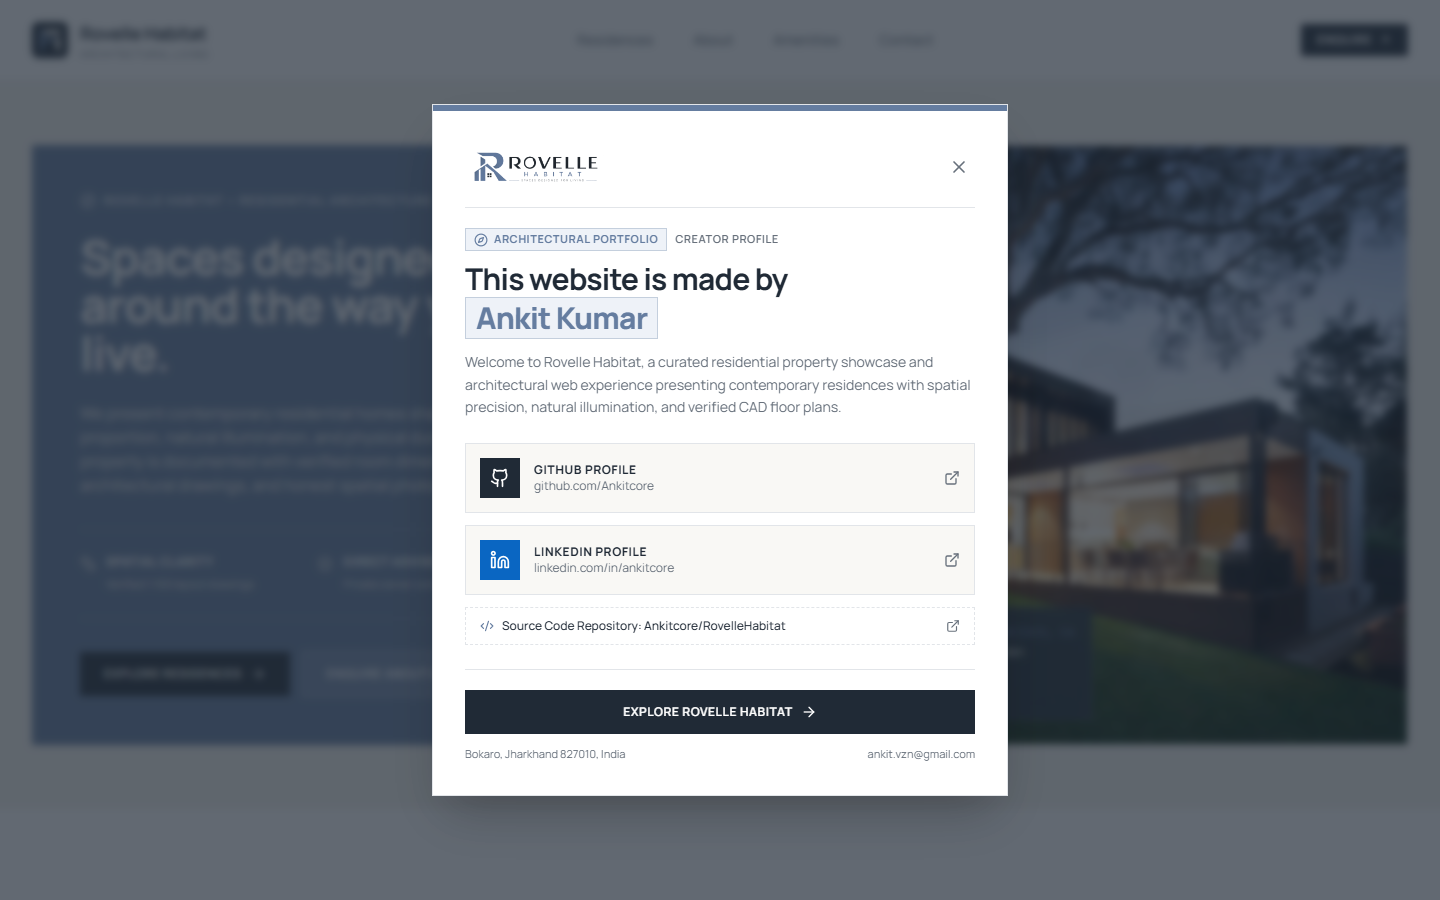
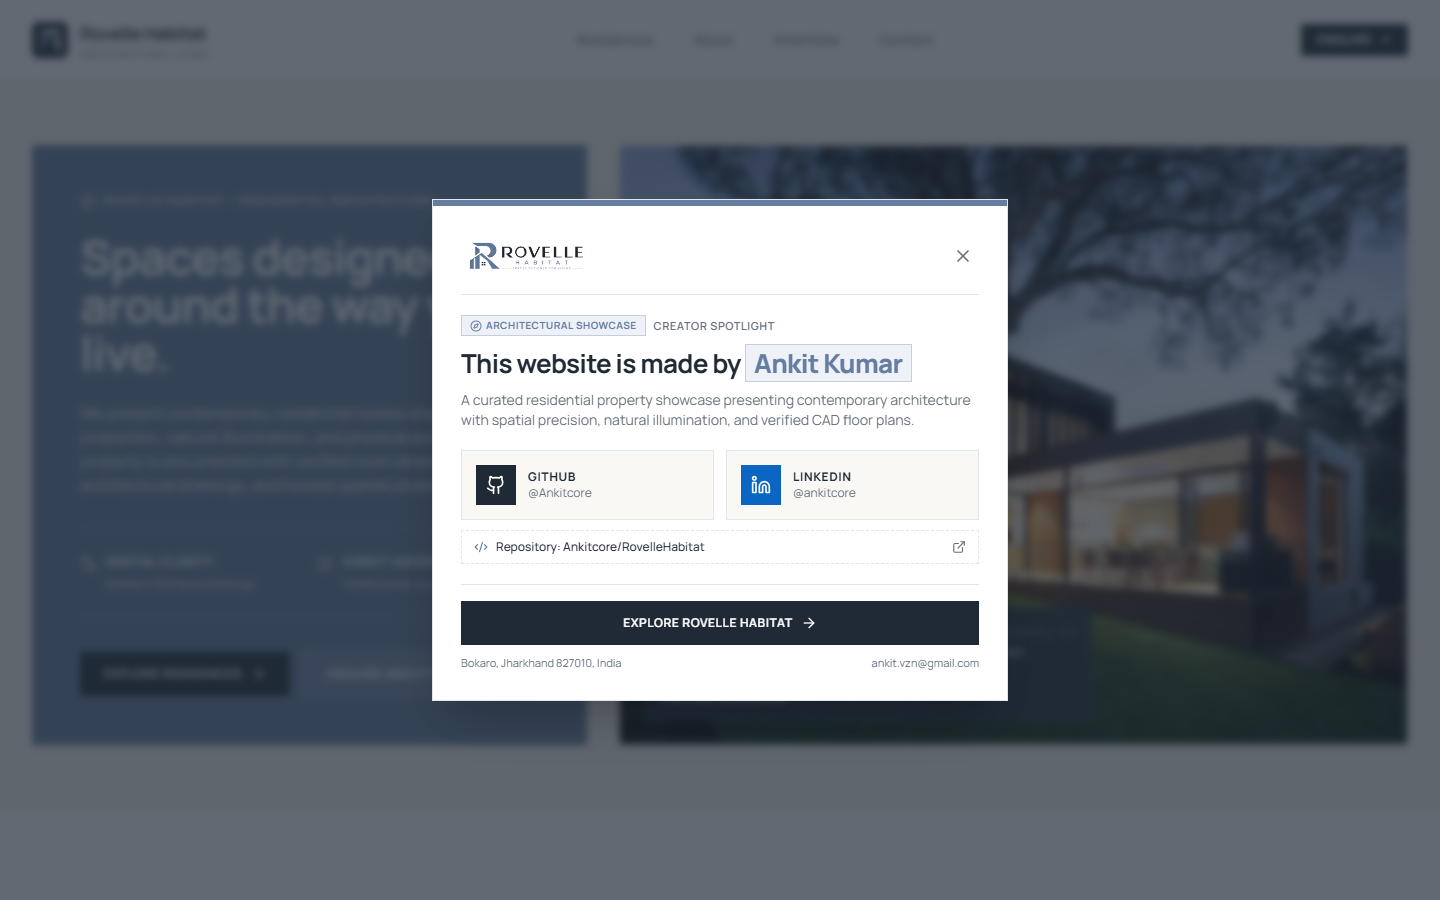
style(modal): compact mobile layout to ~50% screen and refine desktop editorial layout

Changed region(s): [[0.2812, 0.0933, 0.7188, 0.56], [0.2812, 0.5911, 0.7188, 0.9022], [0.6562, 0.5911, 0.6875, 0.6222]]

diff --git a/src/components/home/CreatorWelcomeModal.tsx b/src/components/home/CreatorWelcomeModal.tsx
@@ -9,11 +9,10 @@ export function CreatorWelcomeModal() {
   const [isRendered, setIsRendered] = useState(false)
 
   useEffect(() => {
-    // Show modal on homepage open
     setIsRendered(true)
     const timer = setTimeout(() => {
       setIsOpen(true)
-    }, 200)
+    }, 150)
 
     return () => clearTimeout(timer)
   }, [])
@@ -42,7 +41,7 @@ export function CreatorWelcomeModal() {
     setIsOpen(false)
     setTimeout(() => {
       setIsRendered(false)
-    }, 300)
+    }, 250)
   }
 
   if (!isRendered) return null
@@ -52,7 +51,7 @@ export function CreatorWelcomeModal() {
       role="dialog"
       aria-modal="true"
       aria-labelledby="creator-modal-title"
-      className={`fixed inset-0 z-50 flex items-center justify-center p-4 sm:p-6 transition-all duration-300 ${
+      className={`fixed inset-0 z-50 flex items-center justify-center p-3 sm:p-6 transition-all duration-300 ${
         isOpen
           ? 'bg-rovelle-charcoal/70 backdrop-blur-sm opacity-100'
           : 'bg-transparent backdrop-blur-none opacity-0 pointer-events-none'
@@ -60,24 +59,24 @@ export function CreatorWelcomeModal() {
       onClick={handleClose}
     >
       <div
-        className={`relative w-full max-w-lg sm:max-w-xl overflow-hidden rounded-xs border border-rovelle-border bg-white shadow-2xl transition-all duration-300 transform ${
-          isOpen ? 'scale-100 translate-y-0 opacity-100' : 'scale-95 translate-y-4 opacity-0'
+        className={`relative w-full max-w-[360px] sm:max-w-xl overflow-hidden rounded-xs border border-rovelle-border bg-white shadow-2xl transition-all duration-300 transform ${
+          isOpen ? 'scale-100 translate-y-0 opacity-100' : 'scale-95 translate-y-3 opacity-0'
         }`}
         onClick={(e) => e.stopPropagation()}
       >
         {/* Architectural Accent Bar */}
-        <div className="h-1.5 w-full bg-rovelle-slate" />
+        <div className="h-1 sm:h-1.5 w-full bg-rovelle-slate" />
 
-        {/* Modal Inner Container */}
-        <div className="p-6 sm:p-8">
-          {/* Header Row: Brand Logo and Close Button */}
-          <div className="flex items-center justify-between gap-4 pb-4 border-b border-rovelle-border">
-            <div className="flex items-center gap-3">
+        {/* Modal Inner Content */}
+        <div className="p-4 sm:p-7">
+          {/* Header Row: Official Logo & Close Button */}
+          <div className="flex items-center justify-between gap-3 pb-3 sm:pb-4 border-b border-rovelle-border">
+            <div className="flex items-center">
               {/* eslint-disable-next-line @next/next/no-img-element */}
               <img
                 src="/images/brand/rovelle-habitat-logo-light.png"
                 alt="Rovelle Habitat Brand Logo"
-                className="h-10 sm:h-12 w-auto max-w-[190px] sm:max-w-[220px] object-contain"
+                className="h-7 sm:h-11 w-auto max-w-[160px] sm:max-w-[220px] object-contain"
               />
             </div>
 
@@ -87,112 +86,115 @@ export function CreatorWelcomeModal() {
               className="rounded-xs p-1.5 text-rovelle-muted transition-colors hover:bg-rovelle-ivory hover:text-rovelle-charcoal focus:outline-none focus:ring-2 focus:ring-rovelle-slate shrink-0"
               aria-label="Close welcome modal"
             >
-              <X className="h-5 w-5" />
+              <X className="h-4 w-4 sm:h-5 sm:w-5" />
             </button>
           </div>
 
-          {/* Main Statement & Editorial Content */}
-          <div className="mt-5">
-            <div className="flex flex-wrap items-center gap-2 mb-2.5">
-              <span className="inline-flex items-center gap-1.5 rounded-xs border border-rovelle-slate/30 bg-rovelle-tint-blue px-2 py-0.5 text-[10px] sm:text-[11px] font-bold uppercase tracking-wider text-rovelle-slate">
-                <Compass className="h-3 w-3 sm:h-3.5 sm:w-3.5" />
-                <span>Architectural Portfolio</span>
+          {/* Eyebrow & Main Statement */}
+          <div className="mt-3.5 sm:mt-5">
+            <div className="flex items-center gap-2 mb-2">
+              <span className="inline-flex items-center gap-1 rounded-xs border border-rovelle-slate/30 bg-rovelle-tint-blue px-2 py-0.5 text-[10px] font-bold uppercase tracking-wider text-rovelle-slate">
+                <Compass className="h-3 w-3" />
+                <span>Architectural Showcase</span>
               </span>
               <span className="text-[10px] sm:text-[11px] font-semibold uppercase tracking-wider text-rovelle-muted">
-                Creator Profile
+                Creator Spotlight
               </span>
             </div>
 
             <h2
               id="creator-modal-title"
-              className="text-2xl font-bold tracking-tight text-rovelle-charcoal sm:text-3xl leading-snug"
+              className="text-xl sm:text-2xl lg:text-[26px] font-bold tracking-tight text-rovelle-charcoal leading-snug"
             >
               This website is made by{' '}
-              <span className="inline-block whitespace-nowrap rounded-xs bg-rovelle-tint-blue px-2.5 py-0.5 text-rovelle-slate font-extrabold border border-rovelle-slate/30 shadow-2xs">
+              <span className="inline-block whitespace-nowrap rounded-xs bg-rovelle-tint-blue px-2 py-0.5 text-rovelle-slate font-extrabold border border-rovelle-slate/30 shadow-2xs">
                 {siteConfig.brand.developerName}
               </span>
             </h2>
 
-            <p className="mt-3 text-sm leading-relaxed text-rovelle-muted">
-              Welcome to Rovelle Habitat, a curated residential property showcase and architectural web experience presenting contemporary residences with spatial precision, natural illumination, and verified CAD floor plans.
+            {/* Desktop Editorial Subtitle */}
+            <p className="mt-2 text-xs sm:text-sm leading-relaxed text-rovelle-muted">
+              A curated residential property showcase presenting contemporary architecture with spatial precision, natural illumination, and verified CAD floor plans.
             </p>
           </div>
 
-          {/* Social Profiles & Developer Links */}
-          <div className="mt-6 space-y-3">
-            {/* GitHub Profile */}
-            <a
-              href={siteConfig.brand.developerGithub}
-              target="_blank"
-              rel="noopener noreferrer"
-              className="group flex items-center justify-between rounded-xs border border-rovelle-border bg-rovelle-ivory/60 p-3.5 transition-all duration-150 hover:border-rovelle-slate hover:bg-rovelle-tint-blue/80"
-            >
-              <div className="flex items-center gap-3.5">
-                <div className="flex h-10 w-10 items-center justify-center rounded-xs bg-rovelle-charcoal text-white transition-colors group-hover:bg-rovelle-slate">
-                  <Github className="h-5 w-5" />
-                </div>
-                <div className="text-left">
-                  <div className="text-xs font-bold uppercase tracking-wider text-rovelle-charcoal">
-                    GitHub Profile
+          {/* Social Profiles & Developer Links (Compact Grid on Mobile, Refined on Web) */}
+          <div className="mt-3.5 sm:mt-5 space-y-2.5">
+            <div className="grid grid-cols-2 gap-2 sm:gap-3">
+              {/* GitHub Link */}
+              <a
+                href={siteConfig.brand.developerGithub}
+                target="_blank"
+                rel="noopener noreferrer"
+                className="group flex items-center justify-between rounded-xs border border-rovelle-border bg-rovelle-ivory/60 p-2.5 sm:p-3.5 transition-all duration-150 hover:border-rovelle-slate hover:bg-rovelle-tint-blue/80"
+              >
+                <div className="flex items-center gap-2.5 sm:gap-3">
+                  <div className="flex h-8 w-8 sm:h-10 sm:w-10 items-center justify-center rounded-xs bg-rovelle-charcoal text-white transition-colors group-hover:bg-rovelle-slate shrink-0">
+                    <Github className="h-4 w-4 sm:h-5 sm:w-5" />
                   </div>
-                  <div className="text-xs text-rovelle-muted">
-                    github.com/Ankitcore
+                  <div className="text-left overflow-hidden">
+                    <div className="text-[11px] sm:text-xs font-bold uppercase tracking-wider text-rovelle-charcoal truncate">
+                      GitHub
+                    </div>
+                    <div className="text-[10px] sm:text-xs text-rovelle-muted truncate">
+                      @Ankitcore
+                    </div>
                   </div>
                 </div>
-              </div>
-              <ExternalLink className="h-4 w-4 text-rovelle-muted transition-colors group-hover:text-rovelle-slate" />
-            </a>
+                <ExternalLink className="h-3.5 w-3.5 text-rovelle-muted group-hover:text-rovelle-slate shrink-0 hidden xs:block" />
+              </a>
 
-            {/* LinkedIn Profile */}
-            <a
-              href={siteConfig.brand.developerLinkedin}
-              target="_blank"
-              rel="noopener noreferrer"
-              className="group flex items-center justify-between rounded-xs border border-rovelle-border bg-rovelle-ivory/60 p-3.5 transition-all duration-150 hover:border-rovelle-slate hover:bg-rovelle-tint-blue/80"
-            >
-              <div className="flex items-center gap-3.5">
-                <div className="flex h-10 w-10 items-center justify-center rounded-xs bg-[#0A66C2] text-white transition-opacity group-hover:opacity-90">
-                  <Linkedin className="h-5 w-5" />
-                </div>
-                <div className="text-left">
-                  <div className="text-xs font-bold uppercase tracking-wider text-rovelle-charcoal">
-                    LinkedIn Profile
+              {/* LinkedIn Link */}
+              <a
+                href={siteConfig.brand.developerLinkedin}
+                target="_blank"
+                rel="noopener noreferrer"
+                className="group flex items-center justify-between rounded-xs border border-rovelle-border bg-rovelle-ivory/60 p-2.5 sm:p-3.5 transition-all duration-150 hover:border-rovelle-slate hover:bg-rovelle-tint-blue/80"
+              >
+                <div className="flex items-center gap-2.5 sm:gap-3">
+                  <div className="flex h-8 w-8 sm:h-10 sm:w-10 items-center justify-center rounded-xs bg-[#0A66C2] text-white transition-opacity group-hover:opacity-90 shrink-0">
+                    <Linkedin className="h-4 w-4 sm:h-5 sm:w-5" />
                   </div>
-                  <div className="text-xs text-rovelle-muted">
-                    linkedin.com/in/ankitcore
+                  <div className="text-left overflow-hidden">
+                    <div className="text-[11px] sm:text-xs font-bold uppercase tracking-wider text-rovelle-charcoal truncate">
+                      LinkedIn
+                    </div>
+                    <div className="text-[10px] sm:text-xs text-rovelle-muted truncate">
+                      @ankitcore
+                    </div>
                   </div>
                 </div>
-              </div>
-              <ExternalLink className="h-4 w-4 text-rovelle-muted transition-colors group-hover:text-rovelle-slate" />
-            </a>
+                <ExternalLink className="h-3.5 w-3.5 text-rovelle-muted group-hover:text-rovelle-slate shrink-0 hidden xs:block" />
+              </a>
+            </div>
 
-            {/* GitHub Repository Reference */}
+            {/* Source Code Repository (Compact Banner) */}
             <a
               href={siteConfig.brand.repositoryUrl}
               target="_blank"
               rel="noopener noreferrer"
-              className="group flex items-center justify-between rounded-xs border border-dashed border-rovelle-border bg-white px-3.5 py-2.5 transition-all duration-150 hover:border-rovelle-slate hover:bg-rovelle-ivory/40"
+              className="group flex items-center justify-between rounded-xs border border-dashed border-rovelle-border bg-white px-3 py-2 transition-all duration-150 hover:border-rovelle-slate hover:bg-rovelle-ivory/40"
             >
-              <div className="flex items-center gap-2 text-xs font-medium text-rovelle-charcoal">
-                <Code2 className="h-3.5 w-3.5 text-rovelle-slate" />
-                <span>Source Code Repository: Ankitcore/RovelleHabitat</span>
+              <div className="flex items-center gap-2 text-[11px] sm:text-xs font-medium text-rovelle-charcoal truncate">
+                <Code2 className="h-3.5 w-3.5 text-rovelle-slate shrink-0" />
+                <span className="truncate">Repository: Ankitcore/RovelleHabitat</span>
               </div>
-              <ExternalLink className="h-3.5 w-3.5 text-rovelle-muted group-hover:text-rovelle-slate" />
+              <ExternalLink className="h-3 w-3 sm:h-3.5 sm:w-3.5 text-rovelle-muted group-hover:text-rovelle-slate shrink-0" />
             </a>
           </div>
 
-          {/* Action Button & Contact Footer */}
-          <div className="mt-6 pt-5 border-t border-rovelle-border">
+          {/* Action CTA & Contact Footer */}
+          <div className="mt-4 sm:mt-5 pt-3 sm:pt-4 border-t border-rovelle-border">
             <button
               onClick={handleClose}
               type="button"
-              className="flex w-full items-center justify-center gap-2 rounded-xs bg-rovelle-charcoal px-5 py-3.5 text-xs font-semibold uppercase tracking-wider text-white transition-colors duration-150 hover:bg-rovelle-slate focus:outline-none focus:ring-2 focus:ring-rovelle-slate focus:ring-offset-2"
+              className="flex w-full items-center justify-center gap-2 rounded-xs bg-rovelle-charcoal px-4 py-2.5 sm:py-3.5 text-xs font-semibold uppercase tracking-wider text-white transition-colors duration-150 hover:bg-rovelle-slate focus:outline-none focus:ring-2 focus:ring-rovelle-slate focus:ring-offset-2"
             >
               <span>Explore Rovelle Habitat</span>
               <ArrowRight className="h-4 w-4" />
             </button>
 
-            <div className="mt-3 flex items-center justify-between text-[11px] text-rovelle-muted">
+            <div className="mt-2.5 hidden sm:flex items-center justify-between text-[11px] text-rovelle-muted">
               <span>{siteConfig.contact.address.formatted}</span>
               <a
                 href={`mailto:${siteConfig.contact.email}`}
